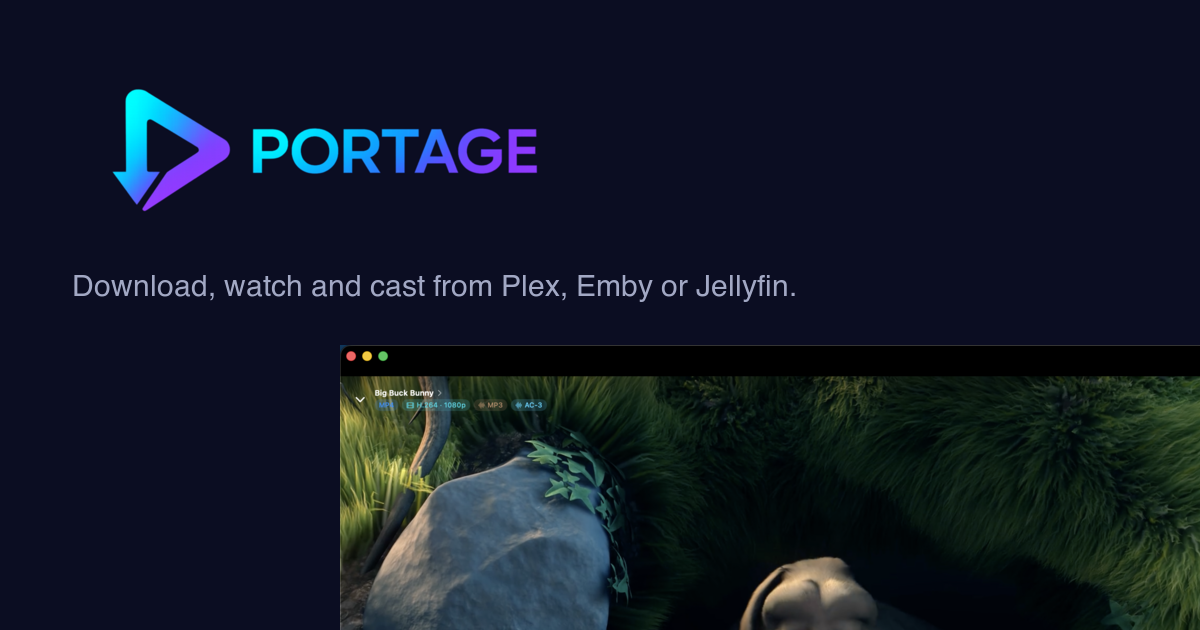
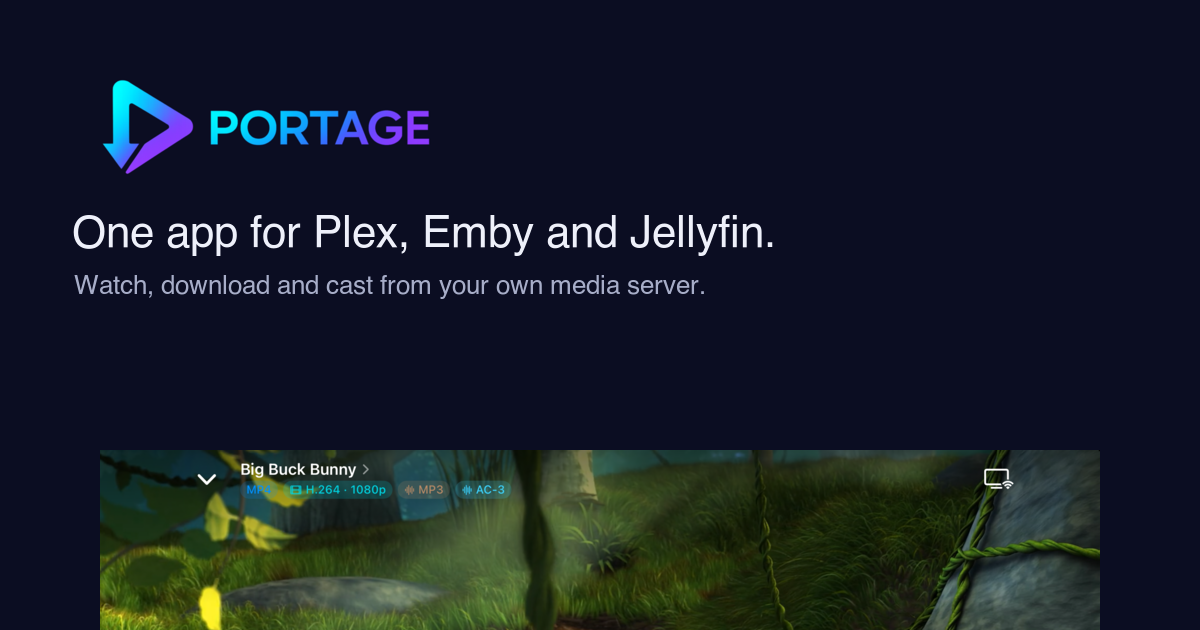
Say only what the official apps don't do
The page now makes five claims and stops: one app for all three servers,
plays the file as it is, downloads are real files you own, casts to
whatever is in the room including a browser, and makes a copy a picky TV
can play. Everything a download or a player is simply expected to do is
gone, and so is any mention of price. Playback shots are landscape, the
way people hold a phone to watch.

diff --git a/index.html b/index.html
@@ -3,12 +3,12 @@
 <head>
 <meta charset="utf-8">
 <meta name="viewport" content="width=device-width, initial-scale=1">
-<title>Portage — Your movies and shows, wherever you are</title>
-<meta name="description" content="Portage plays, saves and casts everything on your Plex, Emby or Jellyfin server. iPhone, iPad and Mac. Free, no account.">
+<title>Portage — One app for Plex, Emby and Jellyfin</title>
+<meta name="description" content="Watch, download and cast from your own media server. Portage works with Plex, Emby and Jellyfin on iPhone, iPad and Mac.">
 <meta name="color-scheme" content="dark">
 <meta name="theme-color" content="#0B0D22">
-<meta property="og:title" content="Portage — Your movies and shows, wherever you are">
-<meta property="og:description" content="Plays, saves and casts everything on your Plex, Emby or Jellyfin server. iPhone, iPad and Mac. Free, no account.">
+<meta property="og:title" content="Portage — One app for Plex, Emby and Jellyfin">
+<meta property="og:description" content="Watch, download and cast from your own media server. iPhone, iPad and Mac.">
 <meta property="og:image" content="https://portage.rikard.dev/img/og.png">
 <meta property="og:url" content="https://portage.rikard.dev/">
 <meta name="twitter:card" content="summary_large_image">
@@ -24,7 +24,7 @@
     <a class="brand" href="/"><img src="/img/glyph.png" alt="" width="28" height="28">Portage</a>
     <div class="links">
       <a href="#watch">Watch</a>
-      <a href="#save">Save</a>
+      <a href="#download">Download</a>
       <a href="#cast">Cast</a>
       <a href="#faq">FAQ</a>
       <a href="/support/">Support</a>
@@ -35,9 +35,8 @@
 
 <header class="hero">
   <div class="wrap">
-    <div class="eyebrow">For Plex, Emby and Jellyfin</div>
-    <h1>Your movies and shows, wherever you are.</h1>
-    <p class="lede">Portage plays, saves and casts everything on your media server. On iPhone, iPad and Mac. Free, with nothing to sign up for.</p>
+    <h1>One app for Plex, Emby and Jellyfin.</h1>
+    <p class="lede">Watch, download and cast from your own media server. On iPhone, iPad and Mac.</p>
     <div class="cta">
       <a class="badge" href="https://apps.apple.com/app/id6816252844">
         <svg viewBox="0 0 17 20" aria-hidden="true"><path d="M14.1 10.6c0-2.6 2.1-3.8 2.2-3.9-1.2-1.8-3.1-2-3.7-2-1.6-.2-3.1.9-3.9.9-.8 0-2-.9-3.4-.9C3.6 4.7 2 5.8 1.1 7.4c-1.9 3.3-.5 8.1 1.4 10.8.9 1.3 2 2.8 3.4 2.7 1.4-.1 1.9-.9 3.5-.9s2.1.9 3.5.9c1.5 0 2.4-1.3 3.3-2.6 1-1.5 1.5-3 1.5-3.1-.1 0-2.9-1.1-2.6-4.6zM11.6 3c.7-.9 1.2-2.1 1.1-3.3-1 0-2.3.7-3 1.6-.7.8-1.2 2-1.1 3.2 1.1.1 2.3-.6 3-1.5z"/></svg>
@@ -48,20 +47,11 @@
         <span><small>Download on the</small><b>Mac App Store</b></span>
       </a>
     </div>
-    <p class="note">iPhone and iPad on iOS 26. Mac on macOS 14 or later.</p>
   </div>
 
   <div class="stage">
-    <div class="mac"><img src="/img/mac-01-library.webp" alt="Portage on a Mac: a sidebar of servers on the left, Continue Watching and a movie library on the right" width="1600" height="1000"></div>
-    <div class="phone"><img src="/img/iphone-04b-player-chrome.webp" alt="Portage on an iPhone playing a film, with the controls showing" width="720" height="1564"></div>
-  </div>
-
-  <div class="wrap">
-    <div class="steps">
-      <div class="step"><div class="n">1</div><h3>Add your server</h3><p>Sign in to Plex, or type in the address of your Emby or Jellyfin server. Or point it at a folder of video files.</p></div>
-      <div class="step"><div class="n">2</div><h3>Find something to watch</h3><p>Everything on the server, with posters, seasons and where you left off. Search across all of it.</p></div>
-      <div class="step"><div class="n">3</div><h3>Play, save or cast</h3><p>Watch it now, keep a copy for later, or send it to the TV. All from the same screen.</p></div>
-    </div>
+    <div class="mac"><img src="/img/mac-01-library.webp" alt="Portage on a Mac: servers in the sidebar, Continue Watching and a movie library" width="1600" height="1000"></div>
+    <div class="phone wide"><img src="/img/iphone-landscape-player.webp" alt="Portage on an iPhone held sideways, playing a film with the controls showing" width="1564" height="720"></div>
   </div>
 </header>
 
@@ -69,24 +59,20 @@
   <section class="chapter" id="watch">
     <div class="wrap">
       <div class="head">
-        <div class="eyebrow">Watch</div>
-        <h2>Press play. That's the whole tutorial.</h2>
-        <p class="lede">Portage plays what's on your server as it is, no waiting for anything to be prepared first. Pick the language and the subtitles you want. Stop halfway through on the Mac and pick up on your phone.</p>
+        <h2>Plays the file. Not a transcode of it.</h2>
+        <p class="lede">MKV, MP4, whatever your server has, exactly as it sits there, with every audio track and subtitle inside it.</p>
       </div>
       <div class="shot-row">
-        <div class="frame pad"><img src="/img/ipad-04b-player-chrome.webp" alt="Portage on an iPad playing a film, with the title, tracks and controls showing" width="1100" height="1467" loading="lazy"></div>
+        <div class="frame wide"><img src="/img/ipad-landscape-player.webp" alt="Portage on an iPad held sideways, playing a film with the title, tracks and controls showing" width="1467" height="1100" loading="lazy"></div>
       </div>
-      <p class="aside">Pinch to fill the screen. Keep watching in a small window while you do something else.</p>
     </div>
   </section>
 
-  <section class="chapter" id="save">
+  <section class="chapter" id="download">
     <div class="wrap split">
       <div class="head">
-        <div class="eyebrow">Save</div>
-        <h2>Save it for the plane.</h2>
-        <p class="lede">One tap and a film, an episode or a whole season comes down to your phone. It keeps going while you do other things, and if the connection drops, it carries on when you're back. Full quality, or a smaller copy if space is tight.</p>
-        <p class="aside">Saved films show up in the Files app on iPhone and iPad, and in Movies on the Mac. They're yours.</p>
+        <h2>Downloads you own.</h2>
+        <p class="lede">Save a film or a whole season as a real file. It's in the Files app on iPhone and iPad, in Movies on the Mac, and it opens in anything.</p>
       </div>
       <div class="two-phones">
         <div class="frame phone"><img src="/img/iphone-06-download-menu.webp" alt="A movie page on iPhone with the download menu open" width="720" height="1564" loading="lazy"></div>
@@ -96,53 +82,48 @@
   </section>
 
   <section class="chapter" id="cast">
-    <div class="wrap split flip">
+    <div class="wrap">
       <div class="head">
-        <div class="eyebrow">Cast</div>
-        <h2>Then put it on the TV.</h2>
-        <p class="lede">Chromecast and Google TV. Apple TV with AirPlay. TVs that speak DLNA. Your phone stays the remote: pause, skip, change the subtitles from the sofa.</p>
-        <p class="aside">Only got a browser? A hotel TV, a friend's laptop, the projector at work. Open tv.rikard.dev on it, type the code, and you're watching.</p>
+        <h2>Cast to whatever's in the room.</h2>
+        <p class="lede">Chromecast and Google TV. Apple TV. Any TV that speaks DLNA. And any web browser at all: open tv.rikard.dev on it, type the code, and it's your screen.</p>
       </div>
-      <div class="frame phone"><img src="/img/iphone-04-player-cast.webp" alt="Portage on iPhone during playback with the cast menu open, listing two TVs, a web browser and AirPlay" width="720" height="1564" loading="lazy"></div>
+      <div class="shot-row">
+        <div class="frame wide"><img src="/img/iphone-landscape-cast.webp" alt="Portage on an iPhone held sideways, with the cast menu listing two TVs, a web browser and AirPlay" width="1564" height="720" loading="lazy"></div>
+      </div>
     </div>
   </section>
 
   <section class="chapter" id="convert">
-    <div class="wrap split">
+    <div class="wrap split flip">
       <div class="head">
-        <div class="eyebrow">Convert</div>
-        <h2>Some TVs are picky. Portage isn't.</h2>
-        <p class="lede">When a file won't play on the screen you want, pick the device from a list and Portage makes a copy that will, right on your phone or Mac. Go make tea; it finishes on its own and picks up again if you leave.</p>
-        <p class="aside">The original stays untouched. Both copies sit side by side in your library.</p>
+        <h2>Make the file your TV can play.</h2>
+        <p class="lede">An older Apple TV. A Chromecast that won't take that codec. Pick the device, and Portage makes a copy that plays on it.</p>
       </div>
-      <div class="frame pad"><img src="/img/ipad-06-convert-presets.webp" alt="The Convert sheet on iPad with a list of devices to optimize for: Apple TV, Chromecast, iPhone and iPad" width="1100" height="1467" loading="lazy"></div>
+      <div class="frame pad"><img src="/img/ipad-06-convert-presets.webp" alt="The Convert sheet on iPad with a list of devices: Apple TV, Chromecast, iPhone and iPad" width="1100" height="1467" loading="lazy"></div>
     </div>
   </section>
 
   <section class="chapter" id="library">
     <div class="wrap">
       <div class="head">
-        <div class="eyebrow">Library</div>
-        <h2>All of your servers. One place.</h2>
-        <p class="lede">Plex at home, Jellyfin at a friend's, Emby on a NAS. Portage puts them side by side, with one Continue Watching row and one search box across everything.</p>
+        <h2>Every server, one library.</h2>
+        <p class="lede">Plex at home, Jellyfin at a friend's, Emby on a NAS, a folder of files on your Mac. One Continue Watching row. One search.</p>
       </div>
       <div class="shot-row">
-        <div class="frame"><img src="/img/mac-02-detail.webp" alt="A movie page in Portage on the Mac: artwork, a Play button, a Download button, and details about the film" width="1600" height="1000" loading="lazy"></div>
+        <div class="frame"><img src="/img/mac-02-detail.webp" alt="A movie page in Portage on the Mac, with Play and Download buttons" width="1600" height="1000" loading="lazy"></div>
       </div>
-      <p class="aside">Every title tells you up front what you're getting: how long it is, what quality, how big a download would be.</p>
     </div>
   </section>
 
   <div class="wrap">
-    <div class="free" id="free">
-      <h2>Free, and none of our business.</h2>
+    <div class="free" id="private">
+      <h2>Nothing between you and your server.</h2>
       <div class="row">
         <span class="pill"><b>No account</b></span>
-        <span class="pill"><b>No subscription</b></span>
         <span class="pill"><b>No ads</b></span>
         <span class="pill"><b>Nothing collected</b></span>
       </div>
-      <p class="more">Portage talks to your server and to the screen you're casting to. Nobody else. <a href="/privacy/">The privacy policy</a> is one page and you can read it in a minute.</p>
+      <p class="more">Portage talks to your server and to the screen you cast to. <a href="/privacy/">Privacy policy</a>.</p>
     </div>
   </div>
 
@@ -151,23 +132,15 @@
       <h2>Questions</h2>
       <details open>
         <summary>Do I need a media server?</summary>
-        <p>For most of it, yes: Portage is a client for a Plex, Emby or Jellyfin server you already have. You can also add a folder of video files, on the Mac or in the Files app, and it works as a library on its own.</p>
+        <p>Portage is a client for a Plex, Emby or Jellyfin server you already have. Without one, you can point it at a folder of video files and use that as a library.</p>
       </details>
       <details>
         <summary>Does it work away from home?</summary>
-        <p>Yes. If your server is reachable from outside your network, Portage reaches it the same way the official apps do. Anything you've saved plays without any connection at all.</p>
+        <p>If your server is reachable from outside your network, yes, the same way the official apps reach it. Anything you've downloaded plays without any connection.</p>
       </details>
       <details>
         <summary>Do I need a Plex Pass to download?</summary>
-        <p>No. Portage saves files with the access your server already gives your account. A subscription is not part of it.</p>
-      </details>
-      <details>
-        <summary>What can it play?</summary>
-        <p>Whatever your server has: MP4, MKV, MOV and the usual suspects, with the audio tracks and subtitles inside them. If a TV or a browser can't handle a particular file, Portage offers to make a copy it can.</p>
-      </details>
-      <details>
-        <summary>What does it cost?</summary>
-        <p>Nothing. There is no in-app purchase and no subscription.</p>
+        <p>No. Portage downloads with the access your server already gives your account.</p>
       </details>
       <details>
         <summary>Is Portage affiliated with Plex, Emby or Jellyfin?</summary>
@@ -179,7 +152,7 @@
   <section class="get" id="get">
     <div class="wrap">
       <h2>Get Portage</h2>
-      <p class="lede">One app for iPhone, iPad and Mac.</p>
+      <p class="lede">iPhone, iPad and Mac.</p>
       <div class="cta">
         <a class="badge" href="https://apps.apple.com/app/id6816252844">
           <svg viewBox="0 0 17 20" aria-hidden="true"><path d="M14.1 10.6c0-2.6 2.1-3.8 2.2-3.9-1.2-1.8-3.1-2-3.7-2-1.6-.2-3.1.9-3.9.9-.8 0-2-.9-3.4-.9C3.6 4.7 2 5.8 1.1 7.4c-1.9 3.3-.5 8.1 1.4 10.8.9 1.3 2 2.8 3.4 2.7 1.4-.1 1.9-.9 3.5-.9s2.1.9 3.5.9c1.5 0 2.4-1.3 3.3-2.6 1-1.5 1.5-3 1.5-3.1-.1 0-2.9-1.1-2.6-4.6zM11.6 3c.7-.9 1.2-2.1 1.1-3.3-1 0-2.3.7-3 1.6-.7.8-1.2 2-1.1 3.2 1.1.1 2.3-.6 3-1.5z"/></svg>

diff --git a/site.css b/site.css
@@ -72,7 +72,7 @@ nav .links .get:hover { background: #4FE6F0; }
 
 .hero { padding: 96px 0 0; text-align: center; }
 .hero .eyebrow { margin-bottom: 18px; }
-.hero h1 { max-width: 14ch; margin: 0 auto; }
+.hero h1 { max-width: 16ch; margin: 0 auto; }
 .hero .lede { max-width: 44ch; margin: 22px auto 0; }
 .hero .cta { justify-content: center; margin-top: 32px; }
 .hero .note { margin-top: 14px; font-size: 14px; color: var(--dim); }
@@ -83,13 +83,15 @@ nav .links .get:hover { background: #4FE6F0; }
   box-shadow: 0 50px 120px rgba(0,0,0,.65), 0 0 0 1px rgba(255,255,255,.12);
 }
 .stage .phone {
-  position: absolute; left: 6%; bottom: -60px; width: 23%;
-  border-radius: 28px; overflow: hidden; background: var(--deeper);
+  position: absolute; left: 4%; bottom: -70px; width: 46%;
+  border-radius: 22px; overflow: hidden; background: var(--deeper);
   box-shadow: 0 30px 80px rgba(0,0,0,.7), 0 0 0 1px rgba(255,255,255,.16);
 }
 @media (max-width: 640px) {
-  .stage .phone { width: 34%; bottom: -30px; left: 12px; border-radius: 18px; }
+  .stage .phone { width: 62%; bottom: -34px; left: 12px; border-radius: 14px; }
 }
+.frame.wide { max-width: 900px; margin: 0 auto; border-radius: 22px; }
+.split .frame.pad { width: min(520px, 100%); margin: 0 auto; }
 
 .steps { margin-top: 140px; display: grid; grid-template-columns: repeat(3, 1fr); gap: 18px; }
 @media (max-width: 760px) { .steps { grid-template-columns: 1fr; margin-top: 110px; } }
@@ -101,7 +103,7 @@ nav .links .get:hover { background: #4FE6F0; }
 .step p { color: var(--muted); margin-top: 8px; font-size: 16px; }
 
 section.chapter { padding: 130px 0 0; }
-.chapter .head { max-width: 640px; }
+.chapter .head { max-width: 680px; }
 .chapter .head .lede { margin-top: 18px; }
 .chapter .shot-row { margin-top: 48px; }
 .frame { border-radius: 16px; overflow: hidden; background: var(--deeper);

diff --git a/privacy/index.html b/privacy/index.html
@@ -19,7 +19,7 @@
     <a class="brand" href="/"><img src="/img/glyph.png" alt="" width="28" height="28">Portage</a>
     <div class="links">
       <a href="/#watch">Watch</a>
-      <a href="/#save">Save</a>
+      <a href="/#download">Download</a>
       <a href="/#cast">Cast</a>
       <a href="/#faq">FAQ</a>
       <a href="/support/">Support</a>

diff --git a/support/index.html b/support/index.html
@@ -19,7 +19,7 @@
     <a class="brand" href="/"><img src="/img/glyph.png" alt="" width="28" height="28">Portage</a>
     <div class="links">
       <a href="/#watch">Watch</a>
-      <a href="/#save">Save</a>
+      <a href="/#download">Download</a>
       <a href="/#cast">Cast</a>
       <a href="/#faq">FAQ</a>
       <a href="/support/">Support</a>
